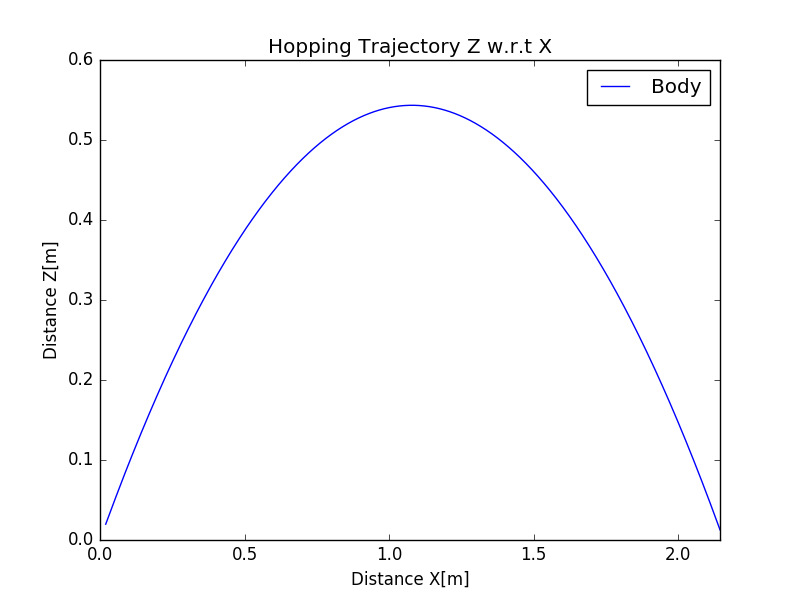
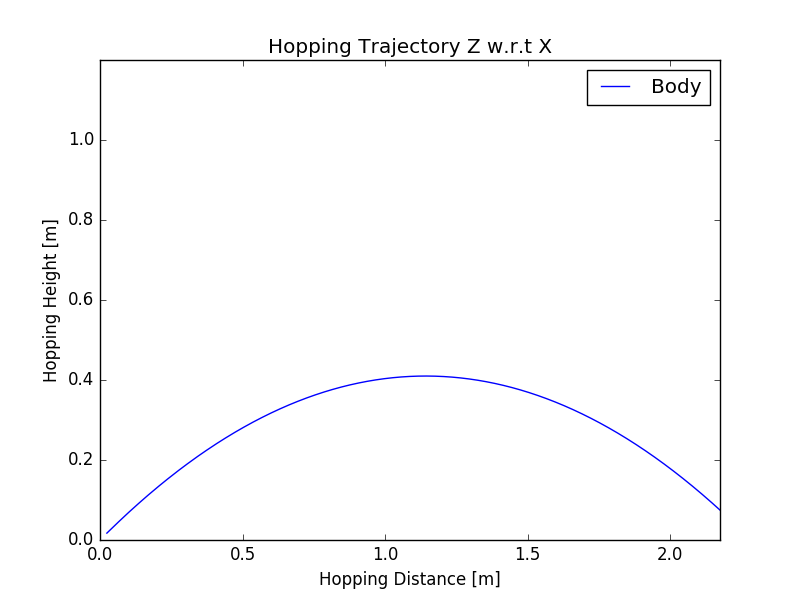
datagetokay

diff --git a/Multileg_cube_Soft_Slip.py b/Multileg_cube_Soft_Slip.py
@@ -5,15 +5,15 @@ import matplotlib.pyplot as plt
 import matplotlib.animation as animation
 import Simu0619
 
-m1 = 0.8  #Mass of Body [Kg]
+m1 = 0.6 + 0.05 * 5  #Mass of Body [Kg]
 #m1 = 0.7 + 2*6  #Mass of Body [Kg]
 m2 = 0.05 #Mass of Pad [Kg]
 g = 1.622  #Gravitational Acceleration [m/s^2] 
-k1 = 1060   #Bias Spring Coefficient [N/m]
+k1 = 3600   #Bias Spring Coefficient [N/m]
 c1 = 1  #Damping Coefficient of Spring [Ns/mm] 
 l0 = 0.1  #Natural Length of Bias Spring [m]
-k2 = 1000  #Spring Coefficient of the ground [N/mm]
-c2 = 1000 #Damping Coefficient [Ns/mm]
+k2 = 10000  #Spring Coefficient of the ground [N/mm]
+c2 = 100 #Damping Coefficient [Ns/mm]
 Z20 = 0.0  #Initial Position of Pad [mm]
 DZ = 0.05    #Initial Deflextion of Bias Spring [mm]
 h = 0.0001   #Interval of RK
@@ -211,6 +211,7 @@ def Cal_Mtlx(X0, t_s, t_f, l):
 					print("Using func2")
 					t = t+h
 					n = n+1
+				#elif XX[n,2]<0 or XX[n,6]<0 or YY[n,1]<0 or YY[n,3]<0 or YY[n,5]<0:
 				elif XX[n,2]<0 or XX[n,6]<0:
 					break
 				else:
@@ -265,7 +266,8 @@ def Cal_Mtlx(X0, t_s, t_f, l):
 					print("Using func4")
 					t = t+h
 					n = n+1
-				elif XX[n,2]<0 or XX[n,6]<0:
+				elif XX[n,2]<0 or XX[n,6]<0 or YY[n,1]<0 or YY[n,3]<0 or YY[n,5]<0:
+				#elif XX[n,2]<0 or XX[n,6]<0:
 					break
 				else:
 					Step = RK(XX[n], func6, l)
@@ -321,7 +323,8 @@ def Cal_Mtlx(X0, t_s, t_f, l):
 					print("Using func2")
 					t = t+h
 					n = n+1
-				elif XX[n,2]<0 or XX[n,6]<0:
+				elif XX[n,2]<0 or XX[n,6]<0 or YY[n,1]<0 or YY[n,3]<0 or YY[n,5]<0:
+				#elif XX[n,2]<0 or XX[n,6]<0:
 					break
 				else:
 					Step = RK(XX[n], func6, l)
@@ -344,7 +347,7 @@ def Cal_Mtlx(X0, t_s, t_f, l):
 
 def main():
 	t_s = 0.0
-	t_f = 5.0 
+	t_f = 8.0 
 	#th0 = np.pi/4
 	X0 = [del_AE*np.cos(th0),0,del_AE*np.sin(th0),0,0,0,0,0]
 	#X0 = [P1[0],0,P1[1],0,0,0,0,0, P3[0], 0, P3[1], 0, P4[0], 0, P4[1], 0, P5[0], 0, P5[1], 0]
@@ -359,36 +362,41 @@ def main():
 	T = np.arange(0, row*h, h)
 	print("Length of T={0}".format(len(T)))
 
+	LimMax = 2.2
+	LimMaxY = 1.2
 	plt.figure()
 	plt.title('Hopping Distance X,Z w.r.t Time')
 	plt.xlabel('Time[s]')
 	plt.ylabel('Hopping Height[m]')
-	plt.plot(T,XX[:,0], label="x1")
-	plt.plot(T,XX[:,2], label="z1")
-	plt.plot(T,XX[:,4], label="x2")
-	plt.plot(T,XX[:,6], label="z2")
-	plt.plot(T,YY[:,0], label="P3x")
-	plt.plot(T,YY[:,1], label="P3y")
-	plt.plot(T,YY[:,2], label="P4x")
-	plt.plot(T,YY[:,3], label="P4y")
+	plt.plot(T,XX[:,0], label="Body_x")
+	plt.plot(T,XX[:,2], label="Body_z")
+	plt.plot(T,XX[:,4], label="Pad_x")
+	plt.plot(T,XX[:,6], label="Pad_z")
+	#plt.plot(T,YY[:,0], label="P3x")
+	#plt.plot(T,YY[:,1], label="P3y")
+	#plt.plot(T,YY[:,2], label="P4x")
+	#plt.plot(T,YY[:,3], label="P4y")
 	plt.xlim([0,T[row-1]])
+	#plt.ylim([0,LimMaxY+0.1])
 	plt.legend()
-	#plt.savefig("Soft_Slip_T-XZ.png")
+	plt.savefig("Three_Times_Cube_Soft_Slip_T-XZ.png")
 	
 	plt.figure()
 	plt.plot(XX[:,0],XX[:,2], label="Body")
 	plt.title('Hopping Trajectory Z w.r.t X')
-	plt.xlabel('Distance X[m]')
-	plt.xlabel('Time[s]')
+	plt.xlabel('Hopping Distance [m]')
 	plt.ylabel('Hopping Height[m]')
 	plt.xlim([0,XX[row-1,0]])
+	#plt.ylim([0,LimMaxY])
 	plt.legend()
-	plt.savefig("Soft_Slip_XZ.png")
+	plt.savefig("ThreeTimes_Cube_Soft_Slip_XZ.png")
 	#plt.show()
 
 	fig = plt.figure()
 	ax = fig.add_subplot(111, autoscale_on=False, xlim=(-0.05, XX[row-1,0]+0.1),\
 	                                              ylim=(-0.05, XX[row-1,0]+0.1))
+	#ax = fig.add_subplot(111, autoscale_on=False, xlim=(-0.05, LimMax),\
+	#                                              ylim=(-0.05, LimMax))
 	ax.grid()
 	
 	#line, = ax.plot([], [],  '-o', lw=3, color = 'blue')
@@ -408,7 +416,7 @@ def main():
 	    time_text.set_text('')
 	    return line1, line2, line3, line4, time_text
 	
-	TM_thin = 20	
+	TM_thin = 30	
 	def animate(i):
 	    thisx1 = [XX[i*TM_thin,0], XX[i*TM_thin,4]]
 	    thisy1 = [XX[i*TM_thin,2], XX[i*TM_thin,6]]
@@ -429,7 +437,7 @@ def main():
 	ani = animation.FuncAnimation(fig, animate, np.arange(1, len(T)/TM_thin),
 	                              interval=1, blit=False, init_func=init)
 	
-	#ani.save("Soft_Slip.gif", writer = 'imagemagick')
+	ani.save("ThreeTimes_Cube_Soft_Slip.gif", writer = 'imagemagick')
 	plt.show()
 if __name__ == '__main__':
 		main()

diff --git a/Multileg_tetra_Soft_Slip.py b/Multileg_tetra_Soft_Slip.py
@@ -5,15 +5,15 @@ import matplotlib.pyplot as plt
 import matplotlib.animation as animation
 import Simu0619
 
-m1 = 0.8  #Mass of Body [Kg]
+m1 = 0.6 + 0.05 * 3 #Mass of Body [Kg]
 #m1 = 0.7 + 1*4  #Mass of Body [Kg]
 m2 = 0.05 #Mass of Pad [Kg]
 g = 1.622  #Gravitational Acceleration [m/s^2] 
-k1 = 1060   #Bias Spring Coefficient [N/m]
+k1 = 1200   #Bias Spring Coefficient [N/m]
 c1 = 1  #Damping Coefficient of Spring [Ns/mm] 
 l0 = 0.1  #Natural Length of Bias Spring [m]
-k2 = 1000  #Spring Coefficient of the ground [N/mm]
-c2 = 1000 #Damping Coefficient [Ns/mm]
+k2 = 10000  #Spring Coefficient of the ground [N/mm]
+c2 = 100 #Damping Coefficient [Ns/mm]
 Z20 = 0.0  #Initial Position of Pad [mm]
 DZ = 0.05    #Initial Deflextion of Bias Spring [mm]
 h = 0.0001   #Interval of RK
@@ -213,7 +213,7 @@ def Cal_Mtlx(X0, t_s, t_f, l):
 					print("Using func2")
 					t = t+h
 					n = n+1
-				elif XX[n,2]<0 or XX[n,6]<0:
+				elif XX[n,2]<0 or XX[n,6]<0 or YY[n,1]<0 or YY[n,3]<0 or YY[n,5]<0:
 					break
 				else:
 					Step = RK(XX[n], func5, l)
@@ -267,7 +267,7 @@ def Cal_Mtlx(X0, t_s, t_f, l):
 					print("Using func4")
 					t = t+h
 					n = n+1
-				elif XX[n,2]<0 or XX[n,6]<0:
+				elif XX[n,2]<0 or XX[n,6]<0 or YY[n,1]<0 or YY[n,3]<0 or YY[n,5]<0:
 					break
 				else:
 					Step = RK(XX[n], func6, l)
@@ -323,7 +323,7 @@ def Cal_Mtlx(X0, t_s, t_f, l):
 					print("Using func2")
 					t = t+h
 					n = n+1
-				elif XX[n,2]<0 or XX[n,6]<0:
+				elif XX[n,2]<0 or XX[n,6]<0 or YY[n,1]<0 or YY[n,3]<0 or YY[n,5]<0:
 					break
 				else:
 					Step = RK(XX[n], func6, l)
@@ -346,7 +346,7 @@ def Cal_Mtlx(X0, t_s, t_f, l):
 
 def main():
 	t_s = 0.0
-	t_f = 1.0 
+	t_f = 5.0 
 	#th0 = np.pi/4
 	X0 = [del_AE*np.cos(th0),0,del_AE*np.sin(th0),0,0,0,0,0]
 	#X0 = [P1[0],0,P1[1],0,0,0,0,0, P3[0], 0, P3[1], 0, P4[0], 0, P4[1], 0, P5[0], 0, P5[1], 0]
@@ -361,34 +361,41 @@ def main():
 	T = np.arange(0, row*h, h)
 	print("Length of T={0}".format(len(T)))
 
+	LimMax = 2.2
+	LimMaxY = 1.2
 	plt.figure()
 	plt.title('Hopping Distance X,Z w.r.t Time')
 	plt.xlabel('Time[s]')
 	plt.ylabel('Hopping Height[m]')
-	plt.plot(T,XX[:,0], label="x1")
-	plt.plot(T,XX[:,2], label="z1")
-	plt.plot(T,XX[:,4], label="x2")
-	plt.plot(T,XX[:,6], label="z2")
-	plt.plot(T,YY[:,0], label="P3x")
-	plt.plot(T,YY[:,1], label="P3y")
+	plt.plot(T,XX[:,0], label="Body_x")
+	plt.plot(T,XX[:,2], label="Body_z")
+	plt.plot(T,XX[:,4], label="Pad_x")
+	plt.plot(T,XX[:,6], label="Pad_z")
+	#plt.plot(T,YY[:,0], label="P3x")
+	#plt.plot(T,YY[:,1], label="P3y")
 	plt.xlim([0,T[row-1]])
+	#plt.xlim([0,LimMax])
+	#plt.ylim([0,LimMaxY])
 	plt.legend()
-	#plt.savefig("Soft_Slip_T-XZ.png")
+	plt.savefig("Tetra_Soft_Slip_T-XZ.png")
 	
 	plt.figure()
 	plt.plot(XX[:,0],XX[:,2], label="Body")
 	plt.title('Hopping Trajectory Z w.r.t X')
-	plt.xlabel('Distance X[m]')
-	plt.xlabel('Time[s]')
+	plt.xlabel('Hopping Distance [m]')
 	plt.ylabel('Hopping Height[m]')
 	plt.xlim([0,XX[row-1,0]])
+	#plt.xlim([0,LimMax])
+	plt.ylim([0,LimMaxY])
 	plt.legend()
-	plt.savefig("Soft_Slip_XZ.png")
+	plt.savefig("Tetra_Soft_Slip_XZ.png")
 	#plt.show()
 
 	fig = plt.figure()
-	ax = fig.add_subplot(111, autoscale_on=False, xlim=(-0.05, XX[row-1,0]+0.1),\
-	                                              ylim=(-0.05, XX[row-1,0]+0.1))
+	#ax = fig.add_subplot(111, autoscale_on=False, xlim=(-0.05, XX[row-1,0]+0.1),\
+	#                                              ylim=(-0.05, XX[row-1,0]+0.1))
+	ax = fig.add_subplot(111, autoscale_on=False, xlim=(-0.05, LimMax),\
+	                                              ylim=(-0.05, LimMax))
 	ax.grid()
 	
 	#line, = ax.plot([], [],  '-o', lw=3, color = 'blue')
@@ -408,7 +415,7 @@ def main():
 	    time_text.set_text('')
 	    return line1, line2, line3, time_text
 	
-	TM_thin = 20	
+	TM_thin = 30	
 	def animate(i):
 	    thisx1 = [XX[i*TM_thin,0], XX[i*TM_thin,4]]
 	    thisy1 = [XX[i*TM_thin,2], XX[i*TM_thin,6]]
@@ -429,7 +436,7 @@ def main():
 	ani = animation.FuncAnimation(fig, animate, np.arange(1, len(T)/TM_thin),
 	                              interval=1, blit=False, init_func=init)
 	
-	#ani.save("Soft_Slip.gif", writer = 'imagemagick')
+	#ani.save("tetra_Soft_Slip.gif", writer = 'imagemagick')
 	plt.show()
 if __name__ == '__main__':
 		main()

diff --git a/Simu0619.py b/Simu0619.py
@@ -60,12 +60,12 @@ Yeild = 100
 #CHANGABLE PARAMETERS 
 m = 0.7 
 Theta = 90.0 
-number = 2 
-n = 15 
+number = 6 
+n = 10 
 D = 6.2  #Diameter of Coil[mm]
 d = 1.2  #Diameter of Wire[mm]
 solid_height = d*n ##solid height of SMA spring[mm]
-k = 1.06 
+k = 3.6 
 X0 = 100 
 X0_SMA = solid_height 
 #X0_SMA = 45             #Natural Height of SMA[mm]
@@ -223,8 +223,8 @@ while(delta_AE+LL*NN<=delta_ME):
 		Del=np.append(Del,np.array([[delta_AE+LL*NN]]), axis=0) 
 		NN = NN+1	
 		
-print(Del)
-print(N)
+#print(Del)
+#print(N)
 
 #fig, (axL, axR) = plt.subplots(ncols=2, figsize=(10,4))
 #axL.plot(del_m,Force, label="Martensite", color='black', linestyle=":")
